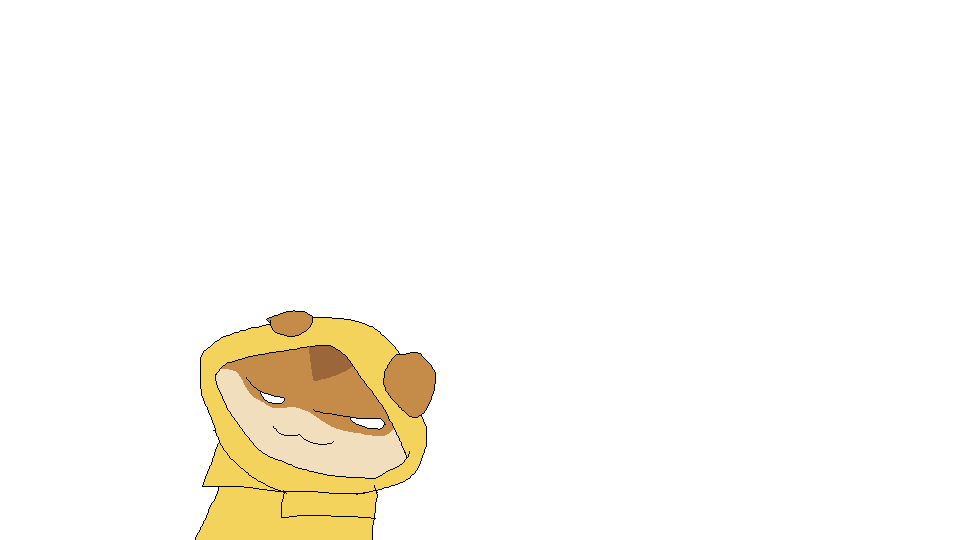
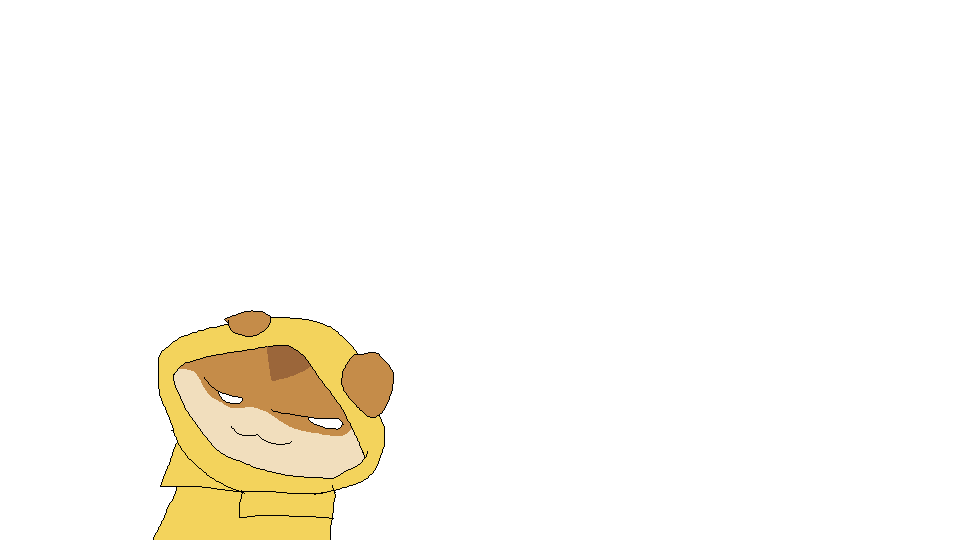
Fix rank command and instant transition to rm_rank with C rank restart

Changed region(s): [[0.1562, 0.563, 0.4688, 1.0]]

diff --git a/src/game.js b/src/game.js
@@ -4441,7 +4441,7 @@ this.entities.push(
 
         // 현재 클리어 랭크 계산 및 보관
         const rankData = this.getRankBubbleData ? this.getRankBubbleData() : { rank: 'D' };
-        this.clearedRank = rankData.rank || 'D';
+        this.clearedRank = this.forceRank || rankData.rank || 'D';
 
         // 스테이지 클리어 및 랭크/점수 영구 저장!
         this.updateSaveProgress(true);
@@ -8477,30 +8477,82 @@ this.entities.push(
                 args: [
                     {
                         name: 'rank',
-                        getOptions: (game, currentArg) => ['C', 'D'].filter(s => s.toLowerCase().startsWith(currentArg.toLowerCase())),
-                        hint: 'C/D'
+                        getOptions: (game, currentArg) => ['C', 'D', 'B', 'A', 'S', 'P'].filter(s => s.toLowerCase().startsWith(currentArg.toLowerCase())),
+                        hint: 'rank (C/D/B/A/S/P)'
                     }
                 ],
                 execute: (game, args) => {
-                    const r = (args[0] || 'C').toUpperCase();
+                    let r = (args[0] || 'C').toUpperCase();
+                    if (r.startsWith('/')) r = r.slice(1).toUpperCase();
+                    game.forceRank = r;
                     game.clearedRank = r;
-                    const rc = game.entities.find(e => e.type === 'rankcontroller');
-                    if (rc) {
-                        rc.rank = r;
-                        rc.imageIndex = 0;
+
+                    if (game.currentRoom === 'rm_rank') {
+                        let rc = game.entities.find(e => e.type === 'rankcontroller');
+                        if (!rc) {
+                            rc = new RankController(0, 0, r);
+                            game.entities.push(rc);
+                        }
+                        rc.restart(r);
+                        return `Rank restarted as ${r}!`;
+                    } else {
+                        game.loadRoom('rm_rank').then(() => {
+                            let rc = game.entities.find(e => e.type === 'rankcontroller');
+                            if (!rc) {
+                                rc = new RankController(0, 0, r);
+                                game.entities.push(rc);
+                            }
+                            rc.restart(r);
+                        }).catch(err => {
+                            console.error('Failed to load rm_rank:', err);
+                        });
+                        return `Rank set to ${r}! Transporting to rm_rank...`;
                     }
-                    return `Cleared Rank set to: ${r}`;
                 }
             },
             'rank': {
                 args: [
                     {
                         name: 'rank',
-                        getOptions: (game, currentArg) => ['C', 'D'].filter(s => s.toLowerCase().startsWith(currentArg.toLowerCase())),
-                        hint: 'C/D'
+                        getOptions: (game, currentArg) => ['C', 'D', 'B', 'A', 'S', 'P'].filter(s => s.toLowerCase().startsWith(currentArg.toLowerCase())),
+                        hint: 'rank (C/D/B/A/S/P)'
                     }
                 ],
                 execute: (game, args) => game.debugCommands['set_rank'].execute(game, args)
+            },
+            'setrank': {
+                args: [
+                    {
+                        name: 'rank',
+                        getOptions: (game, currentArg) => ['C', 'D', 'B', 'A', 'S', 'P'].filter(s => s.toLowerCase().startsWith(currentArg.toLowerCase())),
+                        hint: 'rank (C/D/B/A/S/P)'
+                    }
+                ],
+                execute: (game, args) => game.debugCommands['set_rank'].execute(game, args)
+            },
+            'c': {
+                args: [],
+                execute: (game) => game.debugCommands['set_rank'].execute(game, ['C'])
+            },
+            'd': {
+                args: [],
+                execute: (game) => game.debugCommands['set_rank'].execute(game, ['D'])
+            },
+            'rankc': {
+                args: [],
+                execute: (game) => game.debugCommands['set_rank'].execute(game, ['C'])
+            },
+            'rankd': {
+                args: [],
+                execute: (game) => game.debugCommands['set_rank'].execute(game, ['D'])
+            },
+            'rank_c': {
+                args: [],
+                execute: (game) => game.debugCommands['set_rank'].execute(game, ['C'])
+            },
+            'rank_d': {
+                args: [],
+                execute: (game) => game.debugCommands['set_rank'].execute(game, ['D'])
             },
             'srank': {
                 args: [
@@ -8885,7 +8937,9 @@ this.entities.push(
 
     executeDebugCommand(cmdStr) {
         if (!cmdStr || !cmdStr.trim()) return null;
-        const parts = cmdStr.trim().split(/\s+/);
+        let cleanStr = cmdStr.trim();
+        if (cleanStr.startsWith('/')) cleanStr = cleanStr.slice(1).trim();
+        const parts = cleanStr.split(/\s+/);
         const name = parts[0].toLowerCase();
         const args = parts.slice(1);
 
@@ -9216,6 +9270,15 @@ this.entities.push(
     }
 
     getRankBubbleData() {
+        if (this.forceRank) {
+            const rankOrder = { 'D': 0, 'C': 1, 'B': 2, 'A': 3, 'S': 4, 'P': 5 };
+            const r = this.forceRank.toUpperCase();
+            return {
+                rank: r,
+                rankIndex: rankOrder[r] !== undefined ? rankOrder[r] : 1,
+                fillProgress: 1.0
+            };
+        }
         const target = this.sRankScore || 10000;
         const score = this.score || 0;
         const quarter = Math.round(target / 4);
@@ -9256,6 +9319,7 @@ this.entities.push(
     }
 
     getCurrentRank() {
+        if (this.forceRank) return this.forceRank.toUpperCase();
         return this.getRankBubbleData().rank;
     }
 
@@ -9321,7 +9385,7 @@ this.entities.push(
         if (!data.stages) data.stages = {};
         if (isLevelClear) {
             const stageKey = this.restart_room || this.currentRoom || 'tutorial_1';
-            const currentRank = this.getCurrentRank ? this.getCurrentRank() : 'D';
+            const currentRank = this.forceRank || (this.getCurrentRank ? this.getCurrentRank() : 'D');
             const rankOrder = { 'D': 1, 'C': 2, 'B': 3, 'A': 4, 'S': 5, 'P': 6 };
             const existingRank = (data.stages[stageKey] && data.stages[stageKey].rank) || 'D';
             
@@ -9424,3 +9488,12 @@ this.entities.push(
 }
 
 window.game = new Game();
+
+window.setRank = function(r = 'C') {
+    if (window.gameInstance && window.gameInstance.debugCommands && window.gameInstance.debugCommands['set_rank']) {
+        return window.gameInstance.debugCommands['set_rank'].execute(window.gameInstance, [r]);
+    }
+};
+window.rank = window.setRank;
+window.set_rank = window.setRank;
+

diff --git a/src/entities.js b/src/entities.js
@@ -2986,8 +2986,8 @@ class RankController extends Entity {
         super(x, y, 960, 540);
         this.type = 'rankcontroller';
         this.isSolid = false;
-        this.targetRank = targetRank;
-        this.rank = targetRank || 'D';
+        this.targetRank = targetRank ? targetRank.toUpperCase() : null;
+        this.rank = this.targetRank || 'D';
         this.rankLocked = false;
         
         // Phase sequence:
@@ -3013,40 +3013,80 @@ class RankController extends Entity {
         this.canExit = false;
         this.exiting = false;
 
-        // Load D-rank animation frames from player/spr_rankD (8 frames: spr_rankD_0 ~ 7)
-        if (!RankController.imagesD) {
-            RankController.imagesD = [];
-            for (let i = 0; i <= 7; i++) {
-                const img = new Image();
-                img.src = `player/spr_rankD/spr_rankD_${i}.png`;
-                RankController.imagesD.push(img);
-            }
+        if (!RankController.imagesC || !RankController.imagesD) {
+            RankController.reloadImages();
+        }
+    }
+
+    static reloadImages() {
+        const cacheBust = Date.now();
+        RankController.imagesD = [];
+        for (let i = 0; i <= 7; i++) {
+            const img = new Image();
+            img.src = `player/spr_rankD/spr_rankD_${i}.png?v=${cacheBust}`;
+            RankController.imagesD.push(img);
         }
         RankController.images = RankController.imagesD;
 
-        // Load C-rank animation frames from player/spr_rankC (7 frames: spr_rankC1 ~ 7)
-        if (!RankController.imagesC) {
-            RankController.imagesC = [];
-            for (let i = 1; i <= 7; i++) {
-                const img = new Image();
-                img.src = `player/spr_rankC/spr_rankC${i}.png`;
-                RankController.imagesC.push(img);
-            }
+        RankController.imagesC = [];
+        for (let i = 1; i <= 7; i++) {
+            const img = new Image();
+            img.src = `player/spr_rankC/spr_rankC${i}.png?v=${cacheBust}`;
+            RankController.imagesC.push(img);
+        }
+    }
+
+    restart(targetRank = null) {
+        RankController.reloadImages();
+        if (targetRank) {
+            this.targetRank = targetRank.toUpperCase();
+            this.rank = this.targetRank;
+        } else {
+            this.targetRank = null;
+            this.rank = this.getRank(window.gameInstance);
+        }
+        this.rankLocked = true;
+        this.phase = 0;
+        this.timer = 30; // brief 0.5s pause to see lookdoor, then anim starts
+        this.imageIndex = 0;
+        this.showRankAnim = false;
+        this.animFinished = false;
+        this.revealedLines = 0;
+        this.lineTimer = 0;
+        this.shakeAmount = 0;
+        this.shakeX = 0;
+        this.shakeY = 0;
+        this.canExit = false;
+        this.exiting = false;
+
+        const game = window.gameInstance;
+        if (game && game.player) {
+            game.player.visible = true;
+            game.player.state = 'rank';
+            game.player.sprite_index = 'spr_player_lookdoor';
+            game.player.image_index = 0;
+            const screenW = (game && game.canvas) ? game.canvas.width : 960;
+            const screenH = (game && game.canvas) ? game.canvas.height : 540;
+            game.player.x = Math.round(screenW / 2 - game.player.width / 2);
+            game.player.y = Math.round(screenH / 2 - game.player.height / 2);
+            game.player.vx = 0;
+            game.player.vy = 0;
+            game.player.isGrounded = true;
         }
     }
 
     getRank(game) {
         if (this.targetRank) return this.targetRank;
-        const raw = (game && game.clearedRank) || (game && typeof game.getCurrentRank === 'function' ? game.getCurrentRank() : 'D');
-        // If rank is C, B, A, S, P (and higher rank animations aren't ready yet), show C rank
-        if (raw === 'C' || raw === 'B' || raw === 'A' || raw === 'S' || raw === 'P') {
+        const raw = (game && (game.forceRank || game.clearedRank)) || (game && typeof game.getCurrentRank === 'function' ? game.getCurrentRank() : 'D');
+        const upper = (raw || 'D').toUpperCase();
+        if (upper === 'C' || upper === 'B' || upper === 'A' || upper === 'S' || upper === 'P') {
             return 'C';
         }
         return 'D';
     }
 
     getRankImages() {
-        const r = this.rank || 'D';
+        const r = (this.rank || 'D').toUpperCase();
         if (r === 'C') {
             return RankController.imagesC || [];
         }
@@ -3178,7 +3218,7 @@ class RankController extends Entity {
                 this.canExit = true;
             }
 
-            if (this.canExit && !this.exiting && game) {
+            if (this.canExit && !this.exiting && game && (!game.debugConsole || !game.debugConsole.open)) {
                 const anyKeyPressed = game.keys.actionJump || game.keys.actionTaunt || 
                                       game.keys.actionGroundpound || game.keys.actionUp || 
                                       game.keys.actionDown || game.keys.actionLeft || 

diff --git a/src/player.js b/src/player.js
@@ -416,6 +416,7 @@ class Player {
             this.isGrounded = true;
             this.sprite_index = 'spr_player_lookdoor';
             if (this.sprites.spr_player_lookdoor && this.sprites.spr_player_lookdoor.length > 0) {
+                this.image_index += 0.35;
                 if (this.image_index >= this.sprites.spr_player_lookdoor.length) {
                     this.image_index = this.sprites.spr_player_lookdoor.length - 1;
                 }
